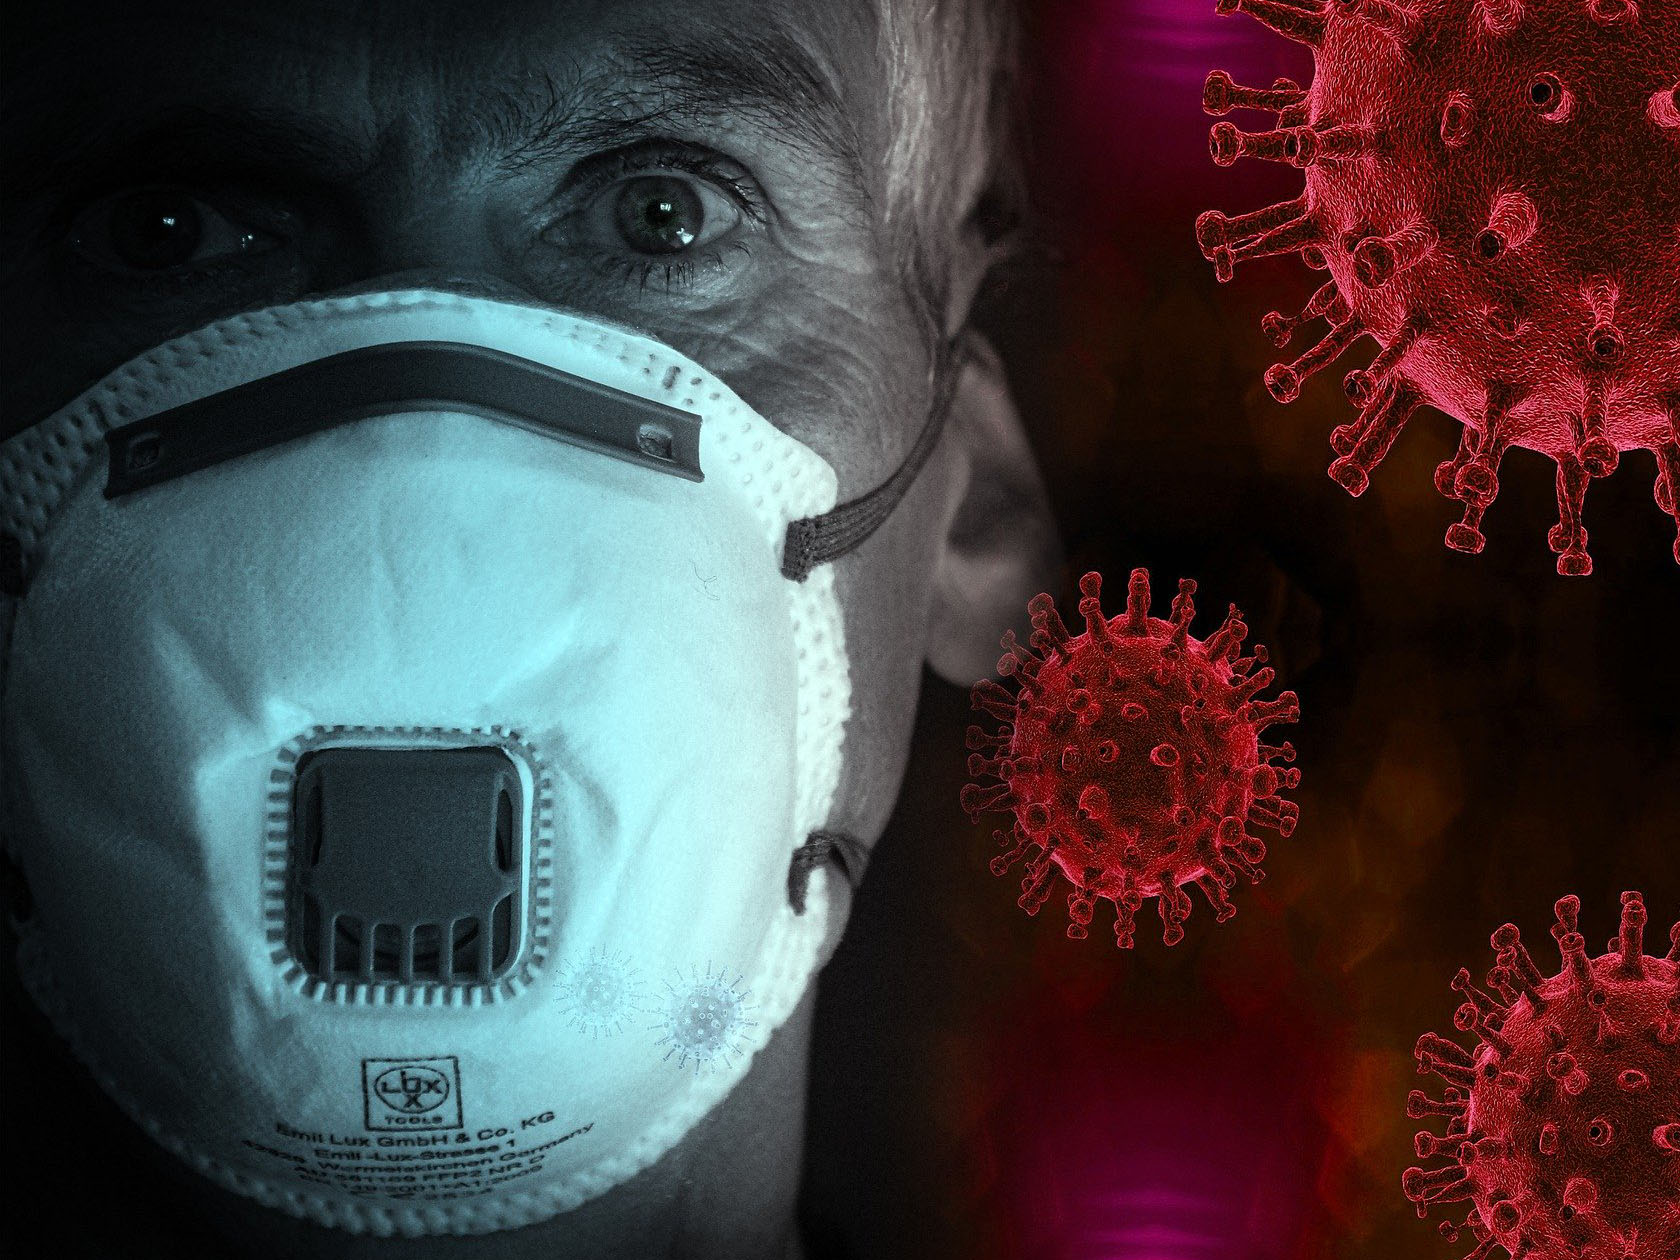
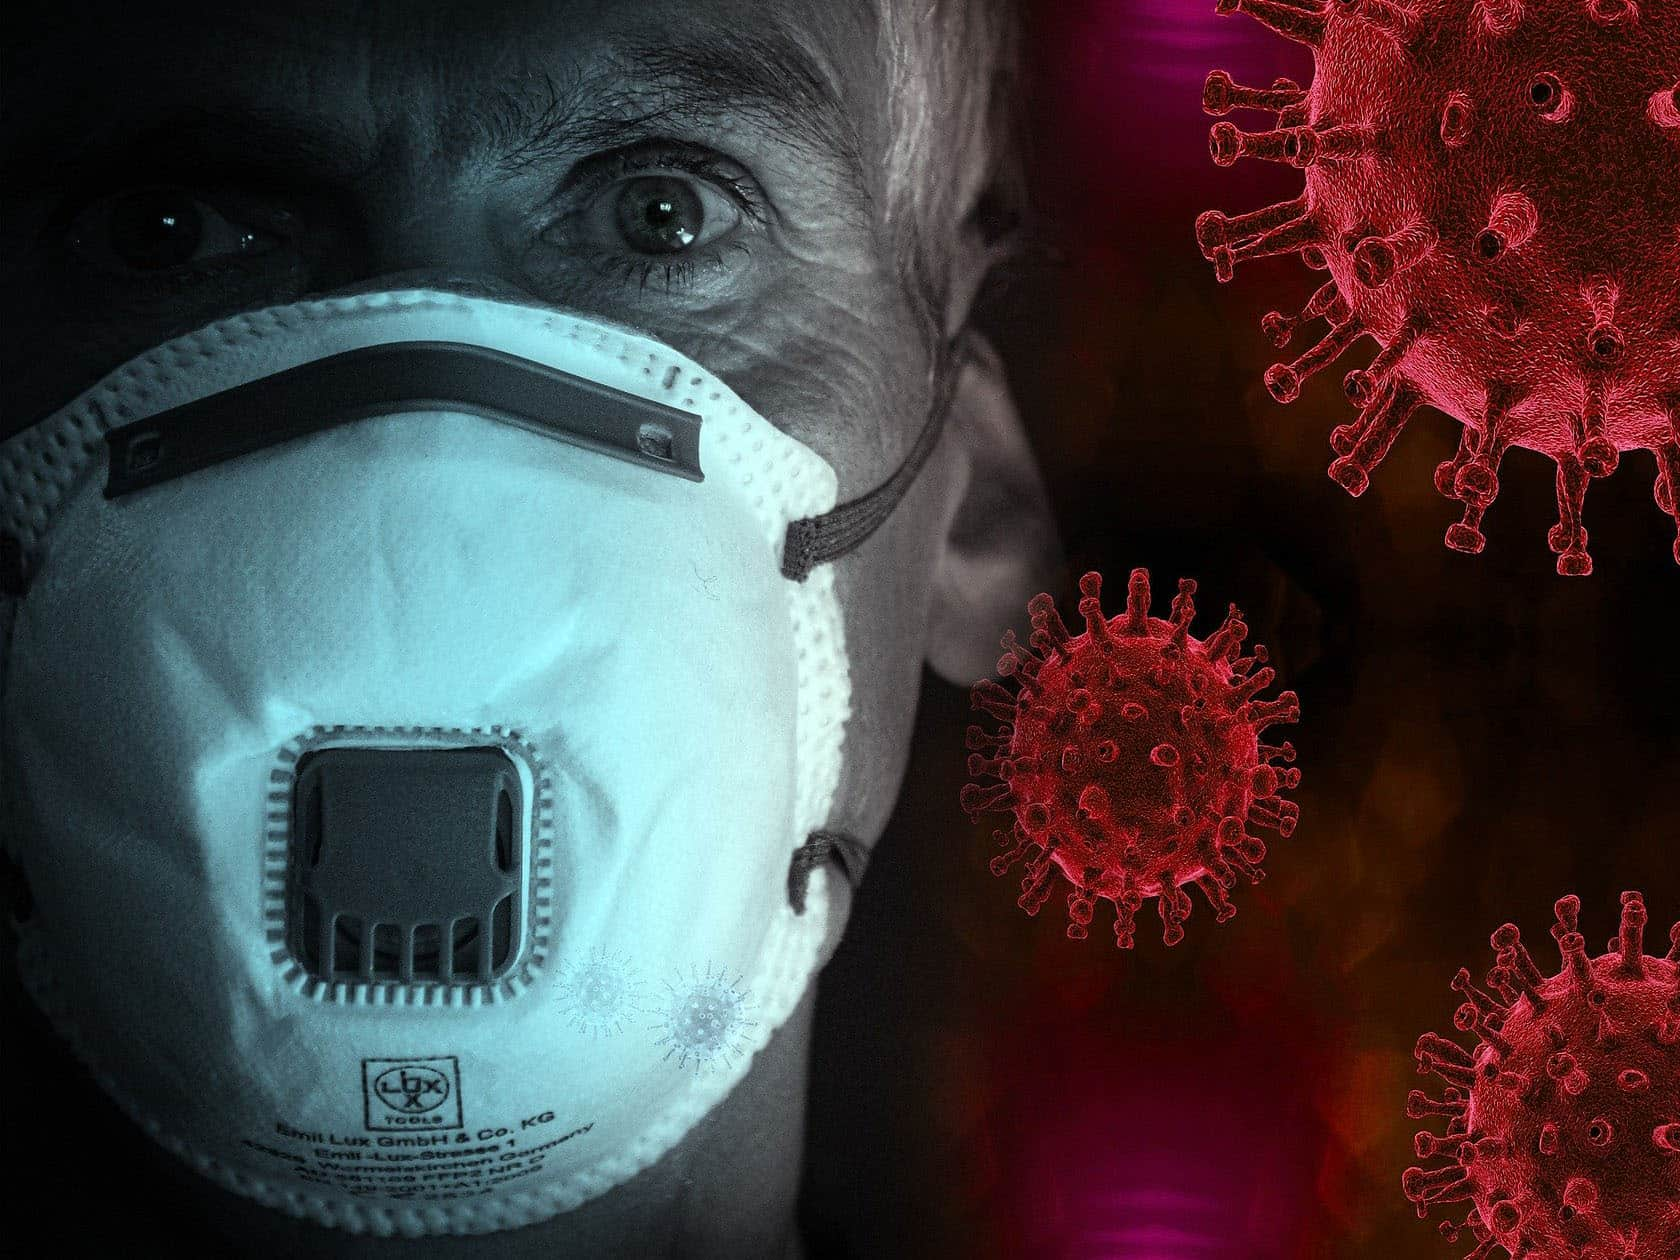
Compressed images & "contact" link fixed

diff --git a/index.html b/index.html
@@ -35,7 +35,7 @@
 					<li><a href="#plantilla">Plantilla</a></li>
 					<li><a href="#mapa">Mapa</a></li>
 					<li><a href="#consejos">Consejos</a></li>
-					<li><a href="elements.html">Contacto</a></li>
+					<li><a href="#contacto">Contacto</a></li>
 				</ul>
 			</nav>
 		</header>

diff --git a/README.md b/README.md
@@ -11,7 +11,5 @@ Website del Proyecto [Ayudaviral.com](https://ayudaviral.com)
 
 ## Tareas Pendientes
 
-* Publicar el nuevo vídeo de Blanca
-* Comprimir las imágenes
-* Limpiar el código HTML
+* Publicar el nuevo vídeo
 * Diseñar el logo de Ayuda Viral
